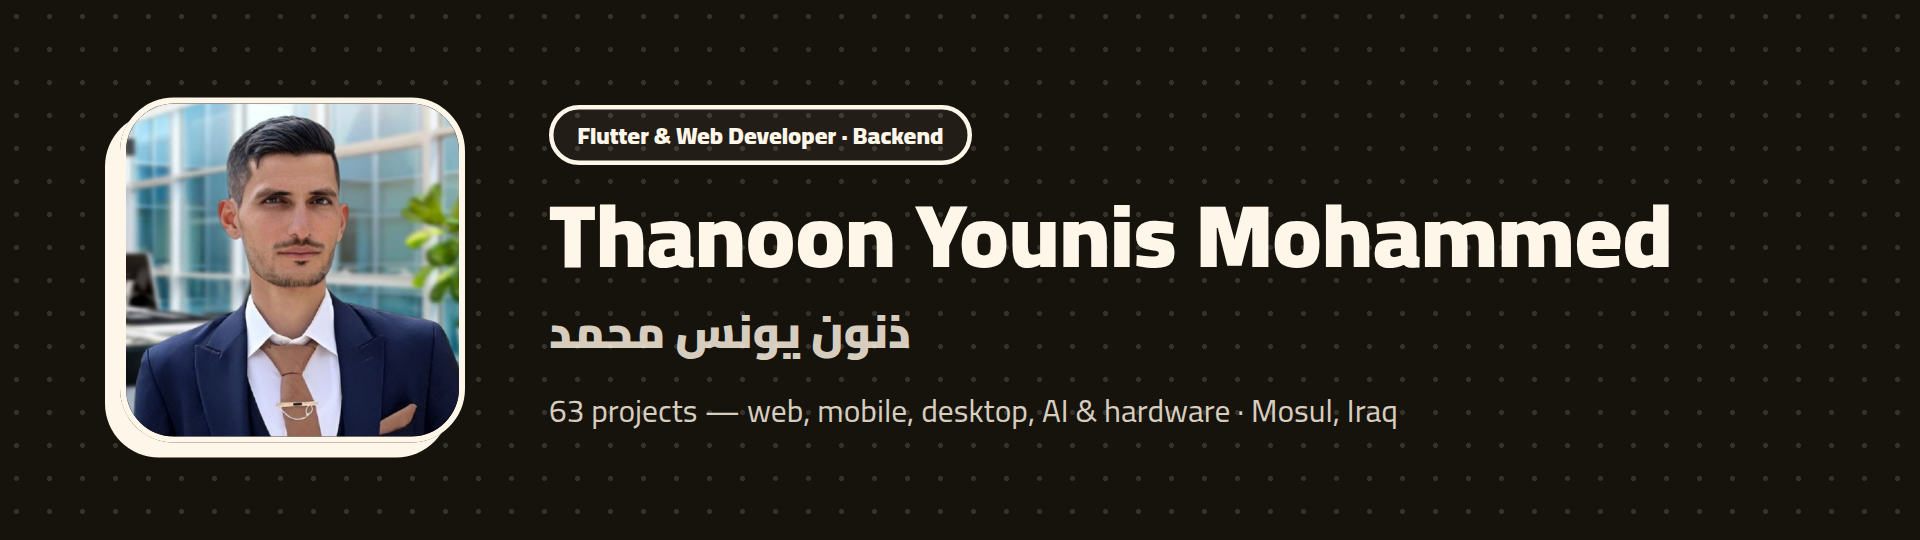
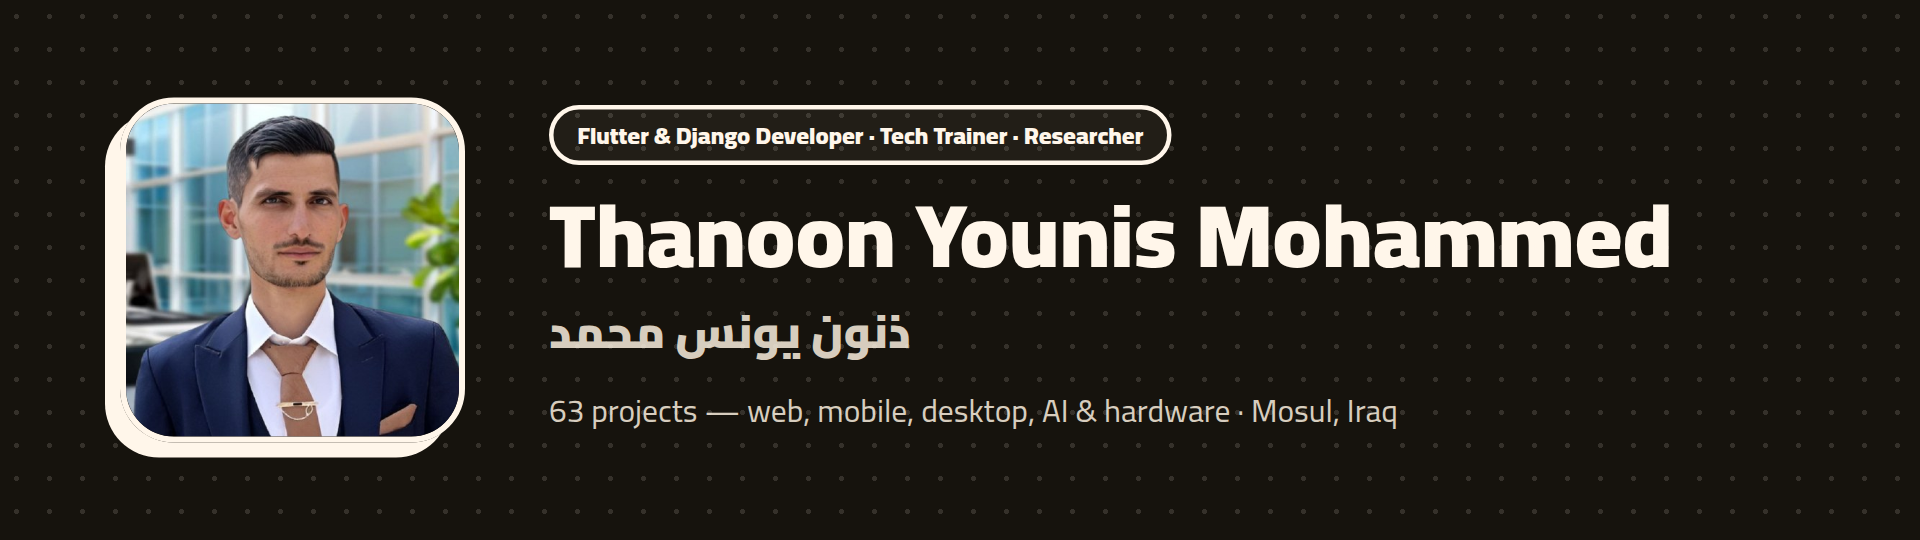
Update profile: trainer & researcher, what I offer
Claude-Session: https://claude.ai/code/session_01GrBvuno8mFSAJEdRgogWzb

Changed region(s): [[0.3438, 0.2074, 0.625, 0.2963], [0.5, 0.2963, 0.5938, 0.3259], [0.5, 0.1778, 0.5938, 0.2074]]

diff --git a/showcase/server.py b/showcase/server.py
@@ -365,6 +365,11 @@ def api_profile():
             for l in lines('experience'):
                 parts = [x.strip() for x in l.split('|')] + ['', '']
                 o['experience'].append({'title': parts[0], 'years': parts[1], 'text': parts[2]})
+        if 'highlights' in f:
+            o['highlights'] = []
+            for l in lines('highlights'):
+                parts = [x.strip() for x in l.split('|')] + ['', '']
+                o['highlights'].append({'icon': parts[0], 'title': parts[1], 'text': parts[2]})
         if 'stats' in f:
             o['stats'] = [[x.strip() for x in (l.split('|') + [''])[:2]] for l in lines('stats')]
         ph = request.files.get('photo')
@@ -478,7 +483,8 @@ ADMIN_HTML = '''<!doctype html><html lang="ar" dir="rtl"><head>%s<title>إدار
  <div class="row"><div><label>الإيميل</label><input id="me_email" dir="ltr"></div><div><label>اللغات</label><input id="me_languages"></div></div>
  <label>الدراسة</label><input id="me_education">
  <label>الخبرة — كل سطر: العنوان | السنوات | الوصف</label><textarea id="me_experience" style="min-height:130px"></textarea>
- <label>دورات وتدريب — كل سطر وحدة</label><textarea id="me_training"></textarea>
+ <label>شنو أقدّم — كل سطر: أيقونة | العنوان | الوصف</label><textarea id="me_highlights" style="min-height:130px"></textarea>
+ <label>دورات وتدريب وبحوث — كل سطر وحدة</label><textarea id="me_training"></textarea>
  <label>المهارات — افصل بفاصلة</label><textarea id="me_skills" dir="ltr"></textarea>
  <label>أرقام إضافية — كل سطر: الرقم | الوصف</label><textarea id="me_stats"></textarea>
  <p style="margin-top:14px"><button class="btn" id="meBtn">حفظ معلوماتي</button></p><div class="msg" id="memsg"></div></div>
@@ -535,11 +541,12 @@ const MEF=['name','name_en','role','location','bio','email','languages','educati
 async function loadMe(){const m=await (await fetch('/admin/api/profile')).json();
  MEF.forEach(k=>$('#me_'+k).value=m[k]||'');$('#me_ph').src='/'+(m.photo||'favicon.svg');
  $('#me_experience').value=(m.experience||[]).map(x=>[x.title,x.years,x.text].join(' | ')).join('\n');
- $('#me_training').value=(m.training||[]).join('\n');$('#me_skills').value=(m.skills||[]).join(', ');
+ $('#me_training').value=(m.training||[]).join('\n');
+ $('#me_highlights').value=(m.highlights||[]).map(x=>[x.icon,x.title,x.text].join(' | ')).join('\n');$('#me_skills').value=(m.skills||[]).join(', ');
  $('#me_stats').value=(m.stats||[]).map(x=>x.join(' | ')).join('\n')}
 $('#me_photo').onchange=e=>{const f=e.target.files[0];if(f)$('#me_ph').src=URL.createObjectURL(f)};
 $('#meBtn').onclick=async()=>{const fd=new FormData();MEF.forEach(k=>fd.append(k,$('#me_'+k).value));
- ['experience','training','skills','stats'].forEach(k=>fd.append(k,$('#me_'+k).value));
+ ['experience','training','skills','stats','highlights'].forEach(k=>fd.append(k,$('#me_'+k).value));
  const f=$('#me_photo').files[0];if(f)fd.append('photo',f,f.name);
  const j=await post('/admin/api/profile',fd);msg($('#memsg'),j.error||'انحفظ ✓',!j.error);if(!j.error){$('#me_photo').value='';loadMe()}};
 load();loadMe();

diff --git a/showcase/site.py b/showcase/site.py
@@ -272,6 +272,11 @@ h2.sec small{display:block;font-size:15px;color:var(--faint);font-weight:700}
 .tl{list-style:none;display:grid;gap:18px}
 .tl li{border-right:4px solid var(--gold);padding-right:14px}
 .tl b{display:block;color:var(--ink);font-size:16px}.tl em{font-style:normal;font-size:12.5px;font-weight:800;color:var(--faint)}
+.hl{padding:10px 0 30px}
+.hls{display:grid;grid-template-columns:repeat(auto-fill,minmax(210px,1fr));gap:20px;margin-top:18px}
+.hls div{background:var(--paper);border:var(--line);border-radius:20px;box-shadow:var(--pop-sm);padding:16px 18px}
+.hls i{font-style:normal;font-size:30px;display:block}.hls b{display:block;font-size:17px;margin:4px 0}
+.hls p{font-size:14px;color:var(--dim)}
 .skills{display:flex;flex-wrap:wrap;gap:7px}
 .skills span{font-size:13px;font-weight:700;border:2px solid var(--ink);border-radius:100px;padding:1px 12px;direction:ltr}
 </style>
@@ -303,6 +308,8 @@ h2.sec small{display:block;font-size:15px;color:var(--faint);font-weight:700}
   <div class="stat"><b id="sL">{{LIVE}}</b><span>بلقطات حقيقية</span></div>
   <div class="stat"><b id="sC">{{CATS}}</b><span>مجالات</span></div>
 </div></header>
+
+<section class="hl"><div class="wrap"><h2 class="sec">شنو أقدّم</h2><div class="hls" id="hls"></div></div></section>
 
 <main class="wrap" id="work">
  <h2 class="sec">مشاريعي <small>كل مشروع مشغّل ومصوّر تلقائياً</small></h2>
@@ -366,6 +373,8 @@ function draw(){
  if(ME.email)$('#mail').href='mailto:'+ME.email;else $('#mail').remove();
  $('#exp').innerHTML=(ME.experience||[]).map(x=>`<li><b>${esc(x.title)}</b><em>${esc(x.years)}</em><p>${esc(x.text)}</p></li>`).join('');
  $('#train').innerHTML=(ME.training||[]).map(x=>`<li>${esc(x)}</li>`).join('');
+ $('#hls').innerHTML=(ME.highlights||[]).map(x=>`<div><i>${esc(x.icon)}</i><b>${esc(x.title)}</b><p>${esc(x.text)}</p></div>`).join('');
+ if(!(ME.highlights||[]).length)$('.hl').remove();
  $('#skills').innerHTML=(ME.skills||[]).map(x=>`<span>${esc(x)}</span>`).join('');
  const st=$('#stats');(ME.stats||[]).forEach(([v,l])=>{st.insertAdjacentHTML('beforeend',`<div class="stat"><b>${esc(v)}</b><span>${esc(l)}</span></div>`)});
  if(ME.name)document.title=ME.name+(ME.role?' — '+ME.role:'');})();
@@ -381,6 +390,8 @@ document.querySelectorAll('.chip').forEach(c=>c.onclick=()=>{(function(){const t
  if(ME.email)$('#mail').href='mailto:'+ME.email;else $('#mail').remove();
  $('#exp').innerHTML=(ME.experience||[]).map(x=>`<li><b>${esc(x.title)}</b><em>${esc(x.years)}</em><p>${esc(x.text)}</p></li>`).join('');
  $('#train').innerHTML=(ME.training||[]).map(x=>`<li>${esc(x)}</li>`).join('');
+ $('#hls').innerHTML=(ME.highlights||[]).map(x=>`<div><i>${esc(x.icon)}</i><b>${esc(x.title)}</b><p>${esc(x.text)}</p></div>`).join('');
+ if(!(ME.highlights||[]).length)$('.hl').remove();
  $('#skills').innerHTML=(ME.skills||[]).map(x=>`<span>${esc(x)}</span>`).join('');
  const st=$('#stats');(ME.stats||[]).forEach(([v,l])=>{st.insertAdjacentHTML('beforeend',`<div class="stat"><b>${esc(v)}</b><span>${esc(l)}</span></div>`)});
  if(ME.name)document.title=ME.name+(ME.role?' — '+ME.role:'');})();

diff --git a/README.md b/README.md
@@ -12,7 +12,7 @@
  <a href="mailto:engthanoon1@gmail.com"><img src="https://img.shields.io/badge/Email-engthanoon1%40gmail.com-EA4335?style=flat-square&logo=gmail&logoColor=white" alt="Email"></a>
 
 
-<p dir="rtl"><b>أبني تطبيقات موبايل ومواقع وأنظمة إدارة، وأربطها بالذكاء الاصطناعي والأجهزة. هنا كل مشاريعي — كل وحدة منها مشغّلة ومصوّرة فعلياً.</b></p>
+<p dir="rtl"><b>مهندس تقنيات حاسوب (شبكات واتصالات) من الموصل. أبني من 2019 تطبيقات Flutter وأنظمة Django و Flask، وأربطها بالذكاء الاصطناعي وأجهزة ESP32 والأردوينو. ودرّبت طلاب جامعات، وعندي بحوث منشورة بمجلات عالمية. وهذا المعرض نفسه مؤتمت بالكامل: أداة كتبتها تشغّل كل مشاريعي وتصوّرها وتبني الموقع وترفعه بدون أي تدخل مني.</b></p>
 
 </div>
 
@@ -21,19 +21,22 @@
 
 ## 👋 About me
 
-<p dir="rtl">مهندس تقنيات حاسوب (شبكات واتصالات) من الموصل. أشتغل من 2019 على تطبيقات Flutter للموبايل وأنظمة خلفية بـ Django و Flask، وأربطها بالذكاء الاصطناعي وأجهزة ESP32 والأردوينو. أحب أبني برامج تحل مشكلة حقيقية عند الناس: عيادات، مولدات، دوائر، ومدارس.</p>
+<p dir="rtl">مهندس تقنيات حاسوب (شبكات واتصالات) من الموصل. أبني من 2019 تطبيقات Flutter وأنظمة Django و Flask، وأربطها بالذكاء الاصطناعي وأجهزة ESP32 والأردوينو. ودرّبت طلاب جامعات، وعندي بحوث منشورة بمجلات عالمية. وهذا المعرض نفسه مؤتمت بالكامل: أداة كتبتها تشغّل كل مشاريعي وتصوّرها وتبني الموقع وترفعه بدون أي تدخل مني.</p>
 
 <p dir="rtl">📍 الموصل، العراق — متاح للعمل عن بعد أو حضورياً</p>
 
 ### 💼 الخبرة · Experience
 
 - **مطوّر Backend و Flutter** · <sub>2019 — الآن</sub><br><sub dir="auto">تطبيقات موبايل متعددة المنصات بـ Flutter، وأنظمة خلفية قابلة للتوسع بـ Django و Flask، ودمج حلول الذكاء الاصطناعي وإدارة المشاريع من البداية للتسليم.</sub>
+- **مدرّب ومساعد تقني** · <sub>2021 — الآن</sub><br><sub dir="auto">تدريب طلاب الجامعات على البرمجة وتطوير التطبيقات، والإشراف التقني على مشاريع التخرج، وخدمات البحث العلمي والنشر والمحاكاة للدكاترة والأساتذة.</sub>
 - **مطوّر تطبيقات موبايل ودعم فني** · <sub>2022 — 2023</sub><br><sub dir="auto">تطبيقات Flutter مع Firebase، أنظمة الإشعارات وقواعد البيانات اللحظية، ودعم المستخدمين.</sub>
 - **مدير سيرفرات** · <sub>2021 — 2023</sub><br><sub dir="auto">إدارة سيرفرات Ubuntu ونشر تطبيقات الويب مع Gunicorn و Redis، والحماية ومراقبة الأداء.</sub>
 - **مطوّر تطبيقات ديسكتوب** · <sub>2019 — 2020</sub><br><sub dir="auto">تطبيقات مؤسسات بـ Visual Basic و C/C++، وتدريب الزبائن عليها.</sub>
 
 🎓 **بكالوريوس هندسة تقنيات الحاسوب — شبكات واتصالات · الجامعة التقنية الشمالية (2018 — 2022)**
 
+- بحوث منشورة في مجلات علمية عالمية
+- تدريب طلاب جامعات على البرمجة والتقنيات الحديثة
 - معسكر Hello Muscat للبرمجة (2023)
 - مساهم بفريق MetaLux
 
